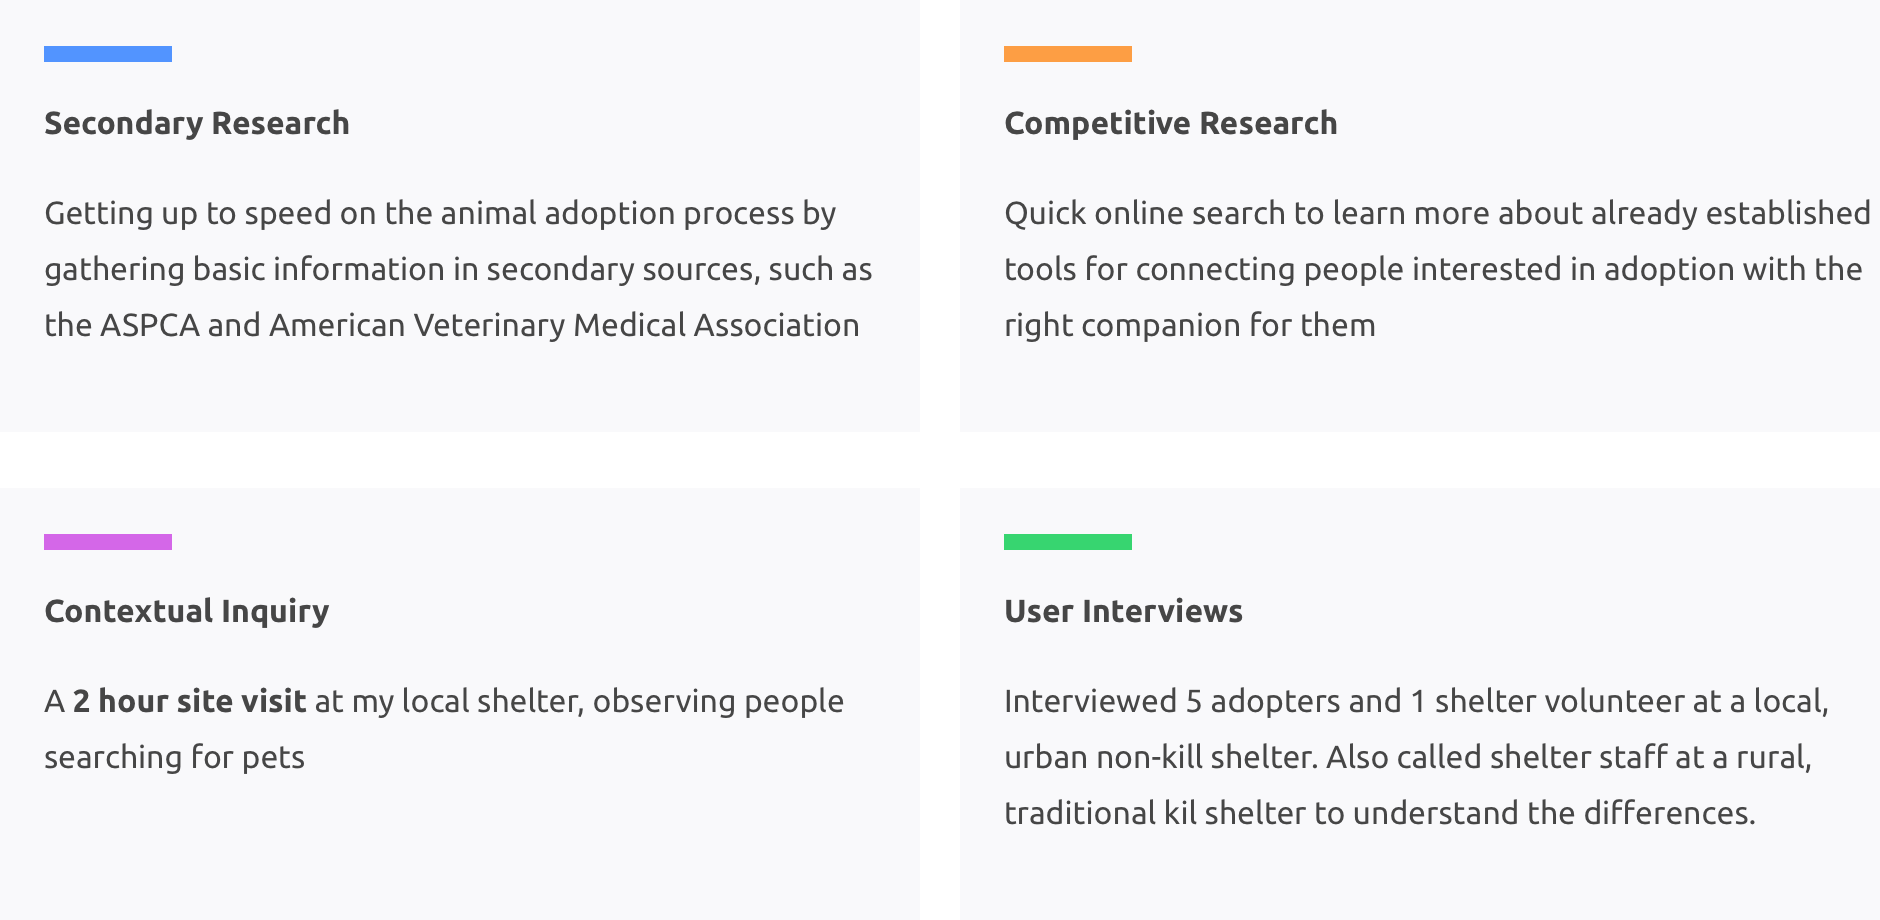
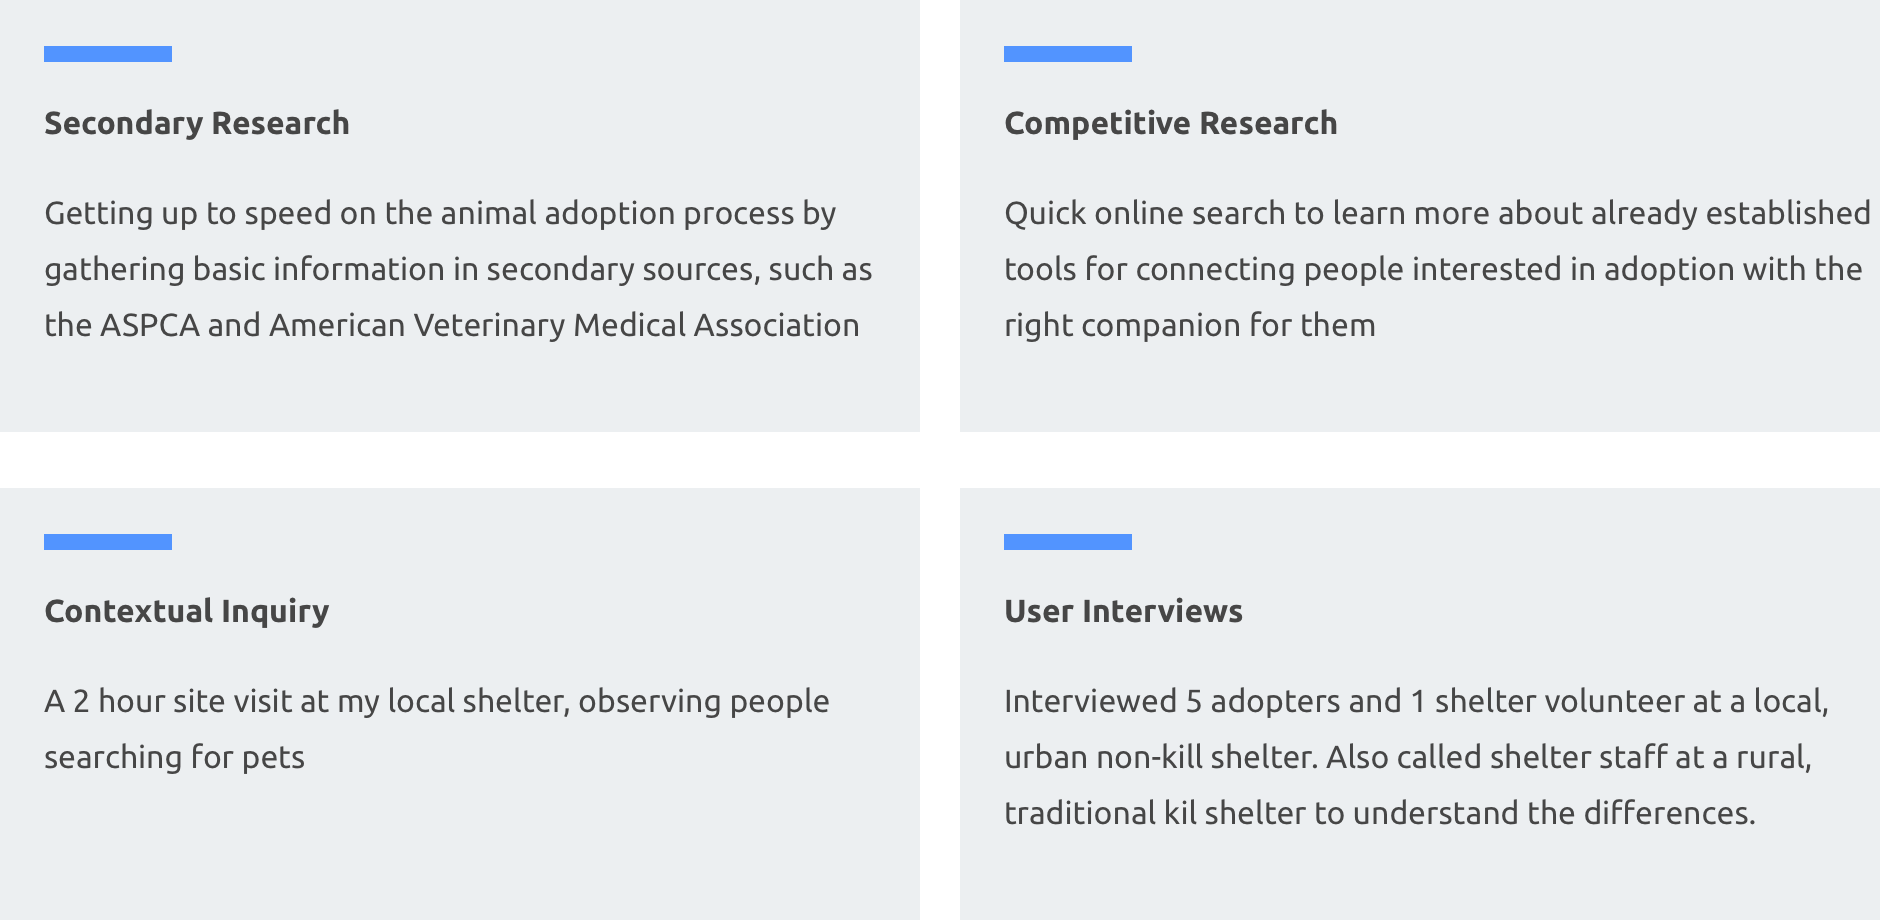
Adjustd colors and diagrams for more accessibility on old monitors

diff --git a/google.html b/google.html
@@ -32,6 +32,10 @@
       background-color: #F5F2F2;
     }
 
+    .cool-white-40 {
+      background-color: #E7ECEF;
+    }
+
     .persona {
       background-color: #1B2833;
     }
@@ -125,7 +129,7 @@
 
     </div>
 
-    <div class="cool2 marginBottomTriple marginTopSingle paddingTopDouble paddingBottomDouble">
+    <div class="cool-white-40 marginBottomTriple marginTopSingle paddingTopDouble paddingBottomDouble">
       <div class="container">
         <div class="row">
           <div class="twelve columns">
@@ -298,7 +302,7 @@
     </div>
 
 
-    <div class="warm-white-30 marginTopDouble marginBottomQuad paddingBottomDouble paddingTopDouble">
+    <div class="cool-white-40 marginTopDouble marginBottomQuad paddingBottomDouble paddingTopDouble">
       <div class="container mb2">
         <div class="row">
           <div class="twelve columns">
